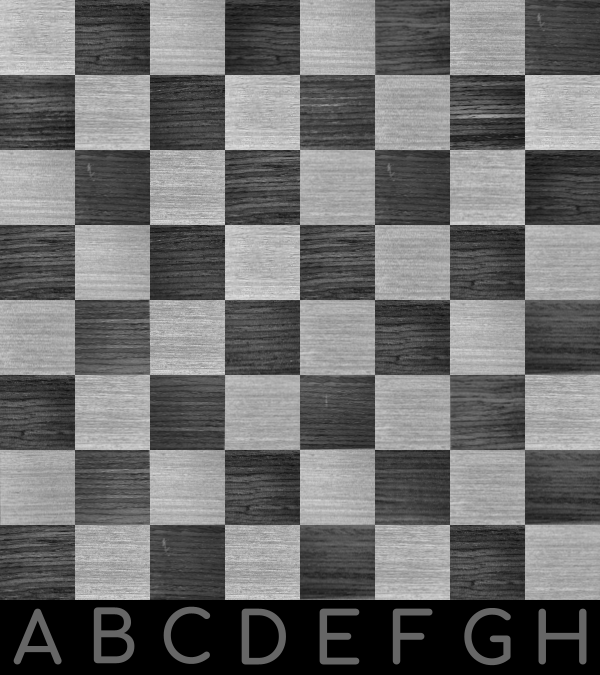
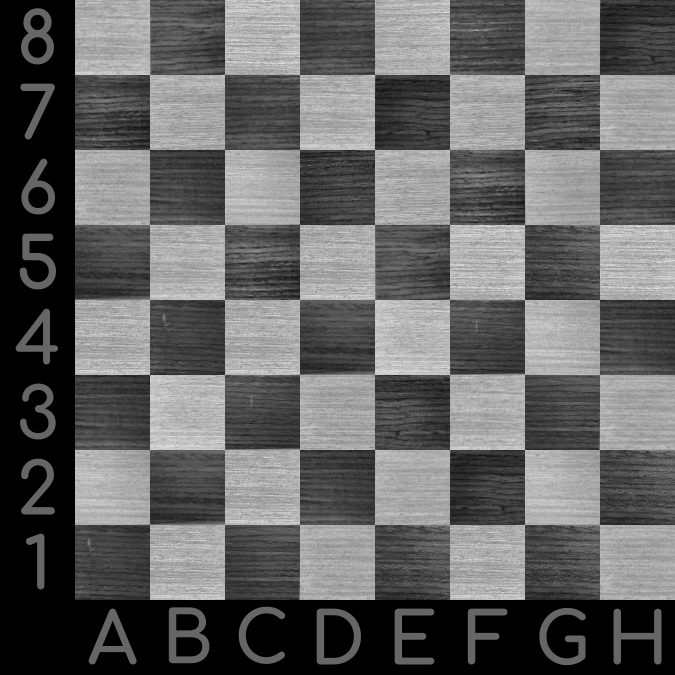
back board generation complete png

diff --git a/board_factory/src/main.rs b/board_factory/src/main.rs
@@ -7,8 +7,11 @@ use std::fs::File;
 
 use std::io::Error;
 use std::io::ErrorKind;
+use std::fmt::Debug;
 
-fn combine_side_by_side<P: AsRef<Path>>(image_path1: P, image_path2: P, output_path: P) -> Result<(), image::ImageError> {
+// fn combine_side_by_side<P: AsRef<Path>>(image_path1: P, image_path2: P, output_path: P) -> Result<(), image::ImageError> {
+fn combine_side_by_side<P: AsRef<Path> + Debug>(image_path1: P, image_path2: P, output_path: P) -> Result<(), image::ImageError> {
+
     /*
     extern crate image;
     use image::ImageBuffer;
@@ -19,8 +22,12 @@ fn combine_side_by_side<P: AsRef<Path>>(image_path1: P, image_path2: P, output_p
      */
 
     // Load the images
-    let image1 = image::open(image_path1)?;
-    let image2 = image::open(image_path2)?;
+    // let image1 = image::open(image_path1)?;
+    // let image2 = image::open(image_path2)?;
+    let image1 = image::open(&image_path1).map_err(|_| image::ImageError::from(io::Error::new(io::ErrorKind::Other, format!("Failed to load image at {:?}", &image_path1))))?;
+    let image2 = image::open(&image_path2).map_err(|_| image::ImageError::from(io::Error::new(io::ErrorKind::Other, format!("Failed to load image at {:?}", &image_path2))))?;
+    
+
 
     // Check the height of the images and make them the same if necessary, or handle differently as needed.
     let height = std::cmp::max(image1.height(), image2.height());
@@ -46,10 +53,12 @@ fn combine_side_by_side<P: AsRef<Path>>(image_path1: P, image_path2: P, output_p
 
 
 
-fn combine_top_to_bottom<P: AsRef<Path>>(image_path1: P, image_path2: P, output_path: P) -> Result<(), image::ImageError> {
+fn combine_top_to_bottom<P: AsRef<Path> + Debug>(image_path1: P, image_path2: P, output_path: P) -> Result<(), image::ImageError> {
+
     // Load the images
-    let image1 = image::open(image_path1)?;
-    let image2 = image::open(image_path2)?;
+    let image1 = image::open(&image_path1).map_err(|_| image::ImageError::from(io::Error::new(io::ErrorKind::Other, format!("Failed to load image at {:?}", &image_path1))))?;
+    let image2 = image::open(&image_path2).map_err(|_| image::ImageError::from(io::Error::new(io::ErrorKind::Other, format!("Failed to load image at {:?}", &image_path2))))?;
+    
 
     // Check the width of the images and make them the same if necessary, or handle differently as needed.
     let width = std::cmp::max(image1.width(), image2.width());
@@ -253,31 +262,29 @@ fn make_and_attach_letter_bar(sandbox_path: &str, orientation_white: bool, board
 
 
 
-// fn make_and_attach_numbers_bar(sandbox_path: &str, orientation_white: bool, board_image_path: &str) -> Result<(), io::Error> {
-//     // Determine the order of numbers (reversed if orientation_white is false)
+
+// fn make_and_attach_number_bar(sandbox_path: &str, orientation_white: bool, board_image_path: &str) -> Result<(), io::Error> {
+//     // Determine the order of numbers
 //     let numbers_order = if orientation_white {
 //         ["8.png", "7.png", "6.png", "5.png", "4.png", "3.png", "2.png", "1.png"]
 //     } else {
 //         ["1.png", "2.png", "3.png", "4.png", "5.png", "6.png", "7.png", "8.png"]
 //     };
 
-//     // Create the numbers bar by combining individual numbers
-//     let mut numbers_bar_path = String::new();
+//     // Create a temporary image for the vertical number bar
+//     let mut number_bar_path = "legend_alpha_num/blank.png".to_string(); // Start with a blank image
+
 //     for number in &numbers_order {
 //         let path = format!("legend_alpha_num/{}", number);
-//         if numbers_bar_path.is_empty() {
-//             numbers_bar_path = path;
-//         } else {
-//             let new_output_path = format!("{}/tmp_{}.png", sandbox_path, number); // Prepend sandbox_path
-//             combine_top_to_bottom(numbers_bar_path, path, new_output_path.clone())
-//                 .map_err(|e| std::io::Error::new(std::io::ErrorKind::Other, format!("{:?}", e)))?;
-//             numbers_bar_path = new_output_path;
-//         }
+//         let new_output_path = format!("{}/tmp_{}.png", sandbox_path, number); // Prepend sandbox_path
+//         combine_top_to_bottom(number_bar_path, path, new_output_path.clone())
+//             .map_err(|e| std::io::Error::new(std::io::ErrorKind::Other, format!("{:?}", e)))?;
+//         number_bar_path = new_output_path;
 //     }
 
-//     // Combine the numbers bar with the board image
+//     // Combine the number bar with the board image
 //     let final_image_with_numbers_path = format!("{}/back_board.png", sandbox_path);
-//     combine_side_by_side(&numbers_bar_path, board_image_path, &final_image_with_numbers_path)
+//     combine_side_by_side(&number_bar_path, &board_image_path.to_string(), &final_image_with_numbers_path)
 //         .map_err(|e| std::io::Error::new(std::io::ErrorKind::Other, format!("{:?}", e)))?;
 
 //     // Optional: Clean up temporary files created during the process
@@ -292,6 +299,55 @@ fn make_and_attach_letter_bar(sandbox_path: &str, orientation_white: bool, board
 // }
 
 
+fn make_and_attach_number_bar(sandbox_path: &str, orientation_white: bool, board_image_path: &str) -> Result<(), io::Error> {
+    // Determine the order of numbers
+    let numbers_order = if orientation_white {
+        ["8.png", "7.png", "6.png", "5.png", "4.png", "3.png", "2.png", "1.png"]
+    } else {
+        ["1.png", "2.png", "3.png", "4.png", "5.png", "6.png", "7.png", "8.png"]
+    };
+
+    // Create a temporary image for the vertical number bar
+    let mut number_bar_path = String::new(); // Start without a path, as we will build it dynamically
+
+    for number in &numbers_order {
+        let path = format!("legend_alpha_num/{}", number);
+        if number_bar_path.is_empty() {
+            number_bar_path = path;
+        } else {
+            let new_output_path = format!("{}/tmp_{}.png", sandbox_path, number);
+            combine_top_to_bottom(number_bar_path, path, new_output_path.clone())
+                .map_err(|e| std::io::Error::new(std::io::ErrorKind::Other, format!("{:?}", e)))?;
+            number_bar_path = new_output_path;
+        }
+    }
+
+    // Now combine the final number bar with a blank image at the bottom
+    let blank_image_path: String = "legend_alpha_num/blank.png".to_string();
+    let new_output_path = format!("{}/tmp_blank.png", sandbox_path);
+    combine_top_to_bottom(number_bar_path, blank_image_path, new_output_path.clone())
+        .map_err(|e| std::io::Error::new(std::io::ErrorKind::Other, format!("{:?}", e)))?;
+    number_bar_path = new_output_path.clone();
+
+    // Combine the number bar with the board image
+    let final_image_with_numbers_path = format!("{}/back_board.png", sandbox_path);
+    combine_side_by_side(&number_bar_path, &board_image_path.to_string(), &final_image_with_numbers_path)
+        .map_err(|e| std::io::Error::new(std::io::ErrorKind::Other, format!("{:?}", e)))?;
+
+    // Optional: Clean up temporary files created during the process
+    for number in &numbers_order {
+        let tmp_file_path = format!("{}/tmp_{}.png", sandbox_path, number);
+        if std::path::Path::new(&tmp_file_path).exists() {
+            let _ = std::fs::remove_file(tmp_file_path);
+        }
+    }
+    // Remove the temporary blank file
+    if std::path::Path::new(&new_output_path).exists() {
+        let _ = std::fs::remove_file(new_output_path);
+    }
+
+    Ok(())
+}
 
 
 
@@ -319,6 +375,7 @@ fn generate_chessboard_backboard_wrapper(game_name: &str, orientation_white: boo
 
 
     // Add number bar
+    make_and_attach_number_bar(&sandbox_path, orientation_white, &board_image_path)?;
 
 
 
